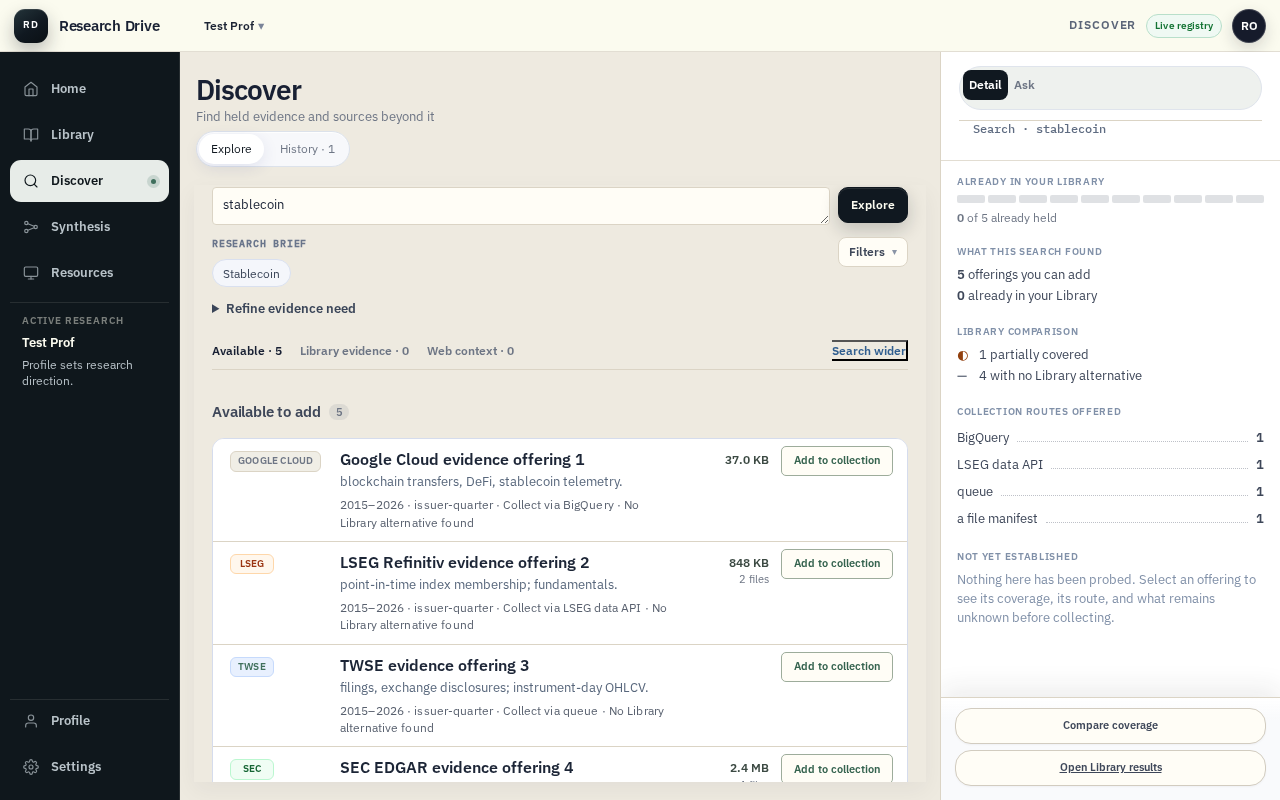
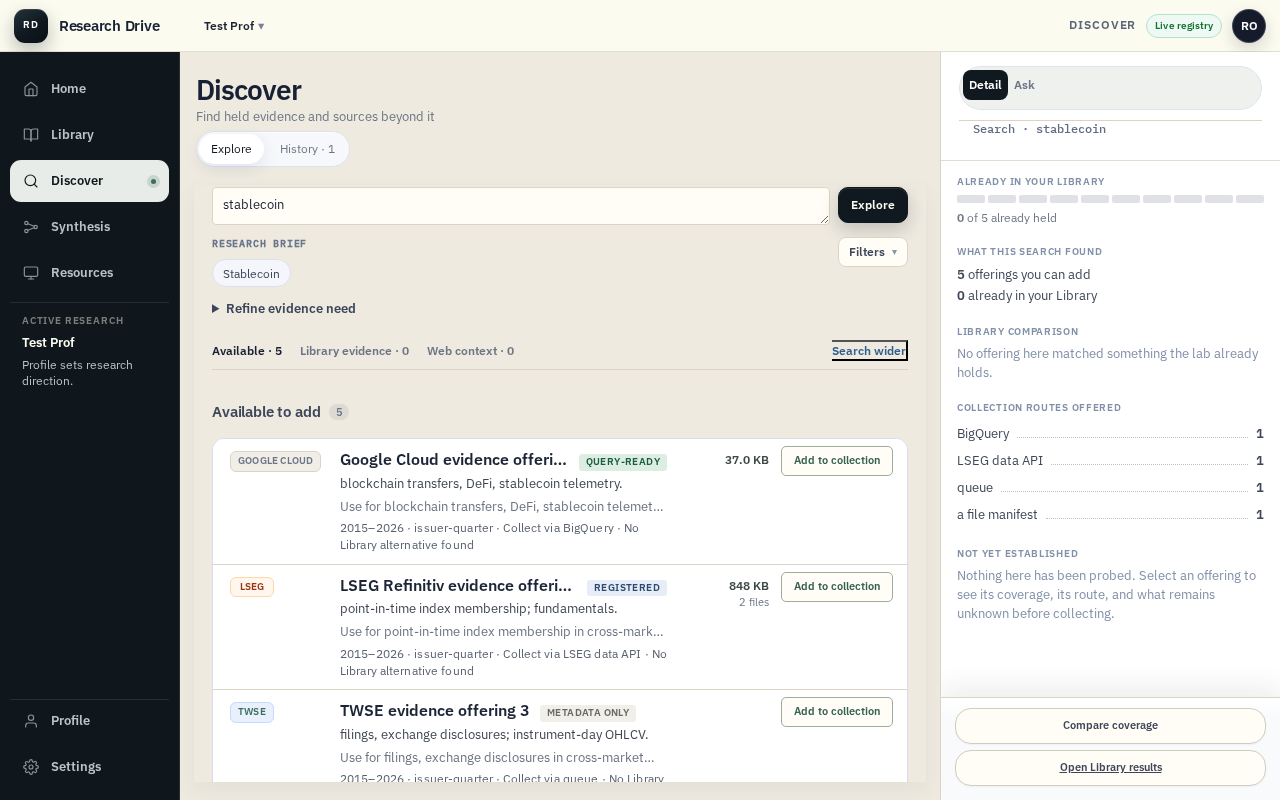
feat(discover): richer row — readiness badge, recommended use, darker description

diff --git a/drive/src/v2/BrowsePage.jsx b/drive/src/v2/BrowsePage.jsx
@@ -223,6 +223,16 @@ function DiscoverCandidateRow({
     !externalCatalogue && Number(taxonomy.group) >= 3 && row.discover_sufficiency?.browseLine;
   // States that mean the lab already holds something relevant, so collecting
   // may be unnecessary. These get a highlighted line; the rest stay inline.
+  const readinessBadge = (() => {
+    const r = String(row?.analysis_readiness || row?.field_coverage || "").toLowerCase();
+    if (!r) return null;
+    if (/query[-_ ]?ready|instant/.test(r)) return { label: "Query-ready", tone: "ready" };
+    if (/register/.test(r)) return { label: "Registered", tone: "mid" };
+    if (/metadata/.test(r)) return { label: "Metadata only", tone: "low" };
+    return null;
+  })();
+  const recommendedUse = String(row?.recommended_use || "").trim().slice(0, 150);
+
   const materialSufficiency = ["exact-local", "partial-local", "related-local"].includes(
     String(row?.discover_sufficiency?.state || ""),
   );
@@ -263,6 +273,11 @@ function DiscoverCandidateRow({
               ) : null}
               {candidateTitle(row)}
             </strong>
+            {readinessBadge ? (
+              <em className={`rd-v2-discover-readiness is-${readinessBadge.tone}`}>
+                {readinessBadge.label}
+              </em>
+            ) : null}
           </span>
           {/* Why this row answers the question that was asked -- the one thing
               the single-column CLI rendering had that this page did not. It is
@@ -282,6 +297,9 @@ function DiscoverCandidateRow({
           <span className={`rd-v2-discover-evidence${evidenceLine ? "" : " is-missing"}`}>
             {evidenceLine || "Description not recorded"}
           </span>
+          {recommendedUse ? (
+            <span className="rd-v2-discover-use">{recommendedUse}</span>
+          ) : null}
           {/* "Dataset · catalog_harvest" is the desk's own vocabulary and says
               nothing a researcher can act on. Keep the offering type only when
               it changes what you can do with the row (a reference or a

diff --git a/drive/src/v2/v2.css b/drive/src/v2/v2.css
@@ -7456,7 +7456,7 @@ aside.rd-v2-rail .rd-v2-eval-actions > .rd-v2-btn {
 .rd-v2-discover-evidence {
   display: -webkit-box;
   overflow: hidden;
-  color: #5f6368;
+  color: #3f4652;
   /* Was inheriting to 13.12px through a rem cascade. Fractional sizes are
      drift, not a scale, and they render inconsistently across rows. */
   font-size: 13px;
@@ -9995,4 +9995,36 @@ button:disabled { opacity: 0.55; cursor: not-allowed; }
     padding-top: 4px;
     text-align: left;
   }
+}
+
+.rd-v2-discover-candidate-heading {
+  display: flex;
+  align-items: baseline;
+  gap: 10px;
+}
+
+.rd-v2-discover-readiness {
+  flex: 0 0 auto;
+  padding: 1px 7px;
+  border-radius: 3px;
+  font-size: 10px;
+  font-style: normal;
+  font-weight: 750;
+  letter-spacing: .04em;
+  text-transform: uppercase;
+}
+
+.rd-v2-discover-readiness.is-ready { background: #dceee2; color: #1d5c40; }
+.rd-v2-discover-readiness.is-mid   { background: #e7edf7; color: #2b4a72; }
+.rd-v2-discover-readiness.is-low   { background: #f0efe9; color: #6b6a62; }
+
+.rd-v2-discover-use {
+  display: -webkit-box;
+  overflow: hidden;
+  max-width: 64ch;
+  color: #6b7280;
+  font-size: 12.5px;
+  line-height: 1.4;
+  -webkit-box-orient: vertical;
+  -webkit-line-clamp: 1;
 }

diff --git a/e2e/program-visual-states.spec.js b/e2e/program-visual-states.spec.js
@@ -68,6 +68,9 @@ function discoverBody(count) {
       ...(i % 3 === 2
         ? {}
         : { size_bytes: 1024 * (37 + i * 811), file_count: 1 + (i % 4) }),
+      analysis_readiness: ["instant", "registered", "metadata_only"][i % 3],
+      recommended_use: `Use for ${description.split(";")[0]} in cross-market studies.`,
+      source_system: `${source} platform`,
     };
   });
   return { sections: [{ title: "Registry", rows }], total: count };
@@ -153,7 +156,7 @@ test.describe("Discover — required visual states", () => {
           els.map((el) => Math.round(el.getBoundingClientRect().height)),
         );
         const median = heights.sort((a, b) => a - b)[Math.floor(heights.length / 2)];
-        expect(median, `median row height ${median}px reads as a card`).toBeLessThanOrEqual(110);
+        expect(median, `median row height ${median}px reads as a card`).toBeLessThanOrEqual(140);
 
         // Legibility and target size, measured rather than eyeballed.
         const metrics = await page.evaluate(() => {

diff --git a/drive/src/v2/release-visual.css b/drive/src/v2/release-visual.css
@@ -2006,7 +2006,7 @@
    won. Same intended size, stated once in the same unit as the rest of the
    row so the description and the facts line sit on one scale. */
 .rd-v2-discover-evidence {
-  color: #58677c;
+  color: #3f4652;
   font-size: 13px;
   /* The reading-measure cap is repeated here deliberately. This sheet loads
      after v2.css and already won the font-size fight that produced 13.12px,
